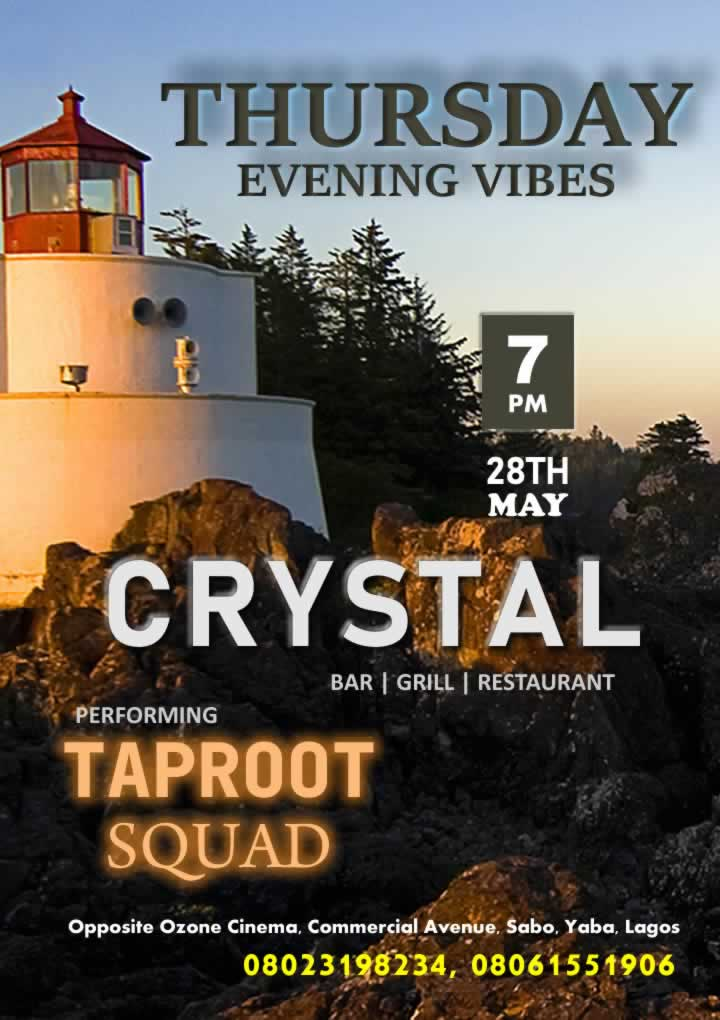
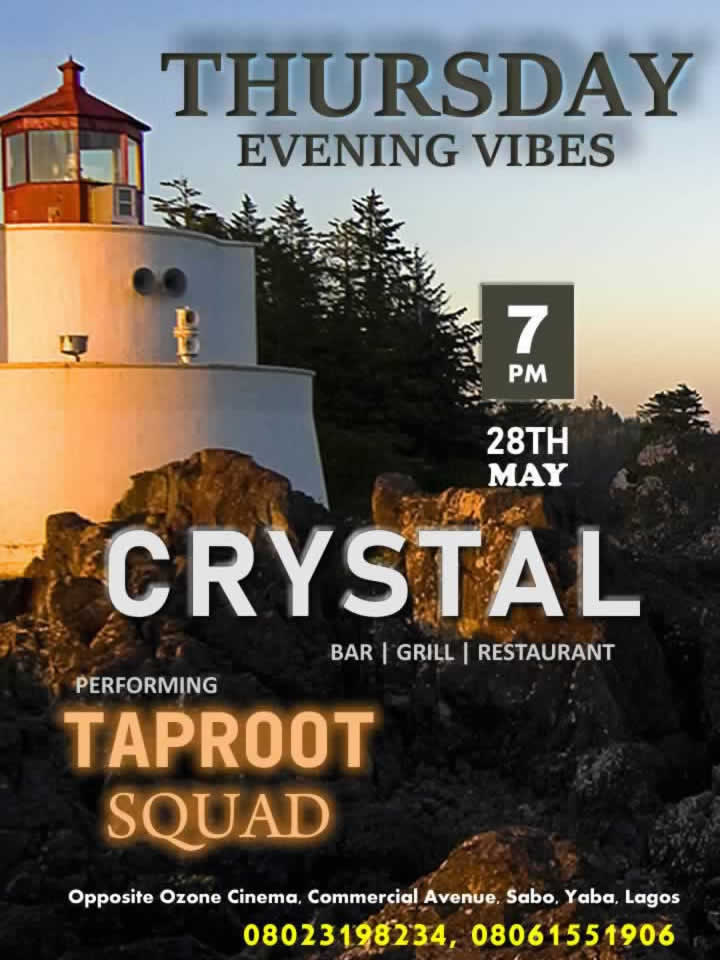
Gallery Changes

diff --git a/portfolio.html b/portfolio.html
@@ -166,6 +166,28 @@
             </div>
             <!-- End Portfolio Item -->
 
+            <div class="col-lg-6 col-md-6 portfolio-item isotope-item filter-poster">
+              <div class="portfolio-card">
+                <div class="portfolio-image">
+                  <img src="./portfolio/posters/efunsetan_720-960.jpg" class="img-fluid" alt="" loading="lazy" />
+                  <div class="portfolio-overlay">
+                    <div class="overlay-actions">
+                      <a href="./portfolio/posters/efunsetan_720-960.jpg" title="Digital Platform"
+                        data-gallery="portfolio-gallery-web" class="glightbox action-btn"><i
+                          class="bi bi-arrows-fullscreen"></i></a>
+                      <a href="portfolio-details.html?id=poster-1" title="View Project" class="action-btn"><i
+                          class="bi bi-arrow-right"></i></a>
+                    </div>
+                  </div>
+                </div>
+                <div class="portfolio-content">
+                  <span class="portfolio-category">Graphic Design</span>
+                  <h4 class="portfolio-title">Film Poster</h4>
+                </div>
+              </div>
+            </div>
+            <!-- End Portfolio Item -->
+
             <div class="col-lg-6 col-md-6 portfolio-item isotope-item filter-web">
               <div class="portfolio-card">
                 <div class="portfolio-image">

diff --git a/components/header.html b/components/header.html
@@ -10,7 +10,7 @@
     <nav id="navmenu" class="navmenu">
         <ul>
             <li>
-                <a href="index.html#hero" class="active">Home</a>
+                <a href="./index.html#hero" class="active">Home</a>
             </li>
             <li><a href="./index.html#about">About</a></li>
             <!-- <li><a href="index.html#services">Services</a></li> -->

diff --git a/components/services.html b/components/services.html
@@ -23,7 +23,7 @@
             </div>
             <div class="card-body">
               <h4>
-                <a href="../services/vid/">Visual Identity Design</a>
+                <a href="../services/vid/">Visual Identity Design 2</a>
               </h4>
               <p>
                 Mauris blandit aliquet elit eget tincidunt nibh pulvinar

diff --git a/portfolio/portfolio.js b/portfolio/portfolio.js
@@ -5,7 +5,7 @@
 
 export function load_header() {
   const tbl_cont = $("#header");
-  const posturl = "./components/header.html";
+  const posturl = "components/header.html";
   tbl_cont.load(posturl);
   return;
 }

diff --git a/portfolio/vid.html b/portfolio/vid.html
@@ -172,6 +172,8 @@
   <!-- Main JS File -->
   <script defer src="./../assets/js/main.js"></script>
   <script type="module" src="./../portfolio/portfolio.js"></script>
+  <script type="module" src="../assets/js/load_portfolio.js"></script>
+
   <!-- <script defer src="./../assets/js/contact.js"></script> -->
 
 </body>

diff --git a/assets/js/custom.js b/assets/js/custom.js
@@ -76,6 +76,7 @@ export function load_about() {
   tbl_cont.removeClass("hide");
   return;
 }
+
 export function load_contact() {
   const tbl_cont = $("#contact");
   const posturl = "components/contact.html";